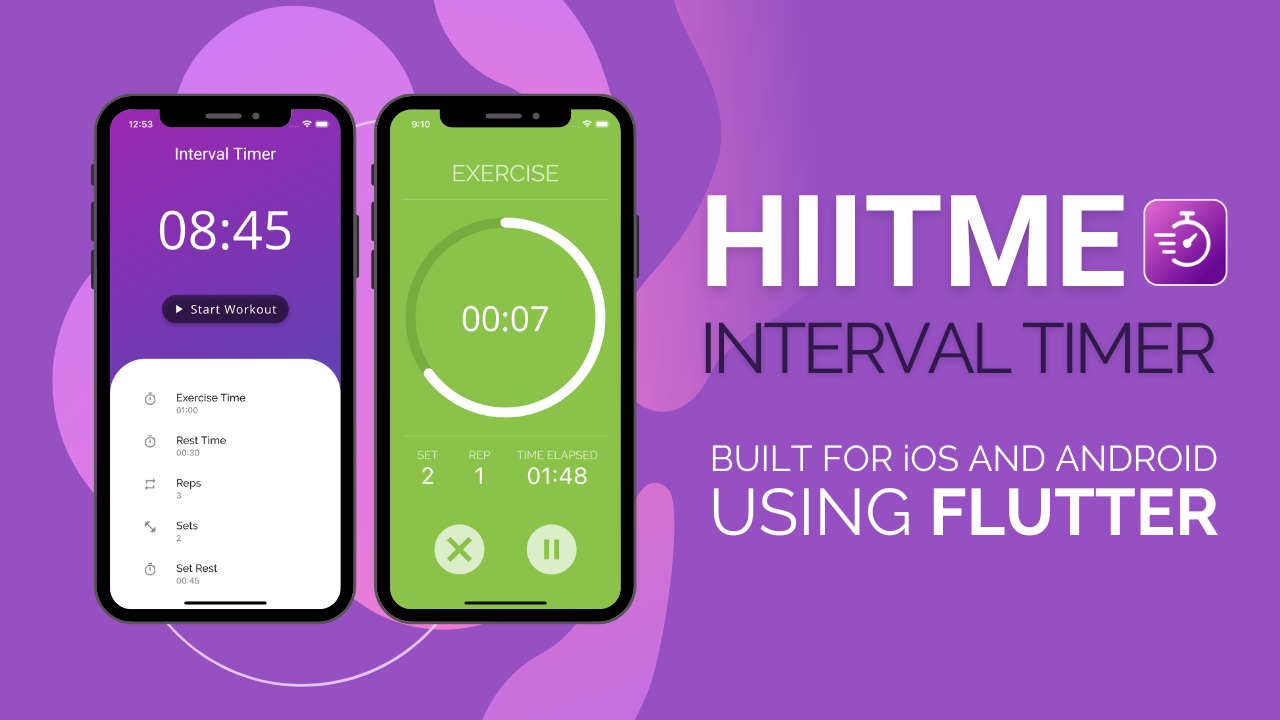
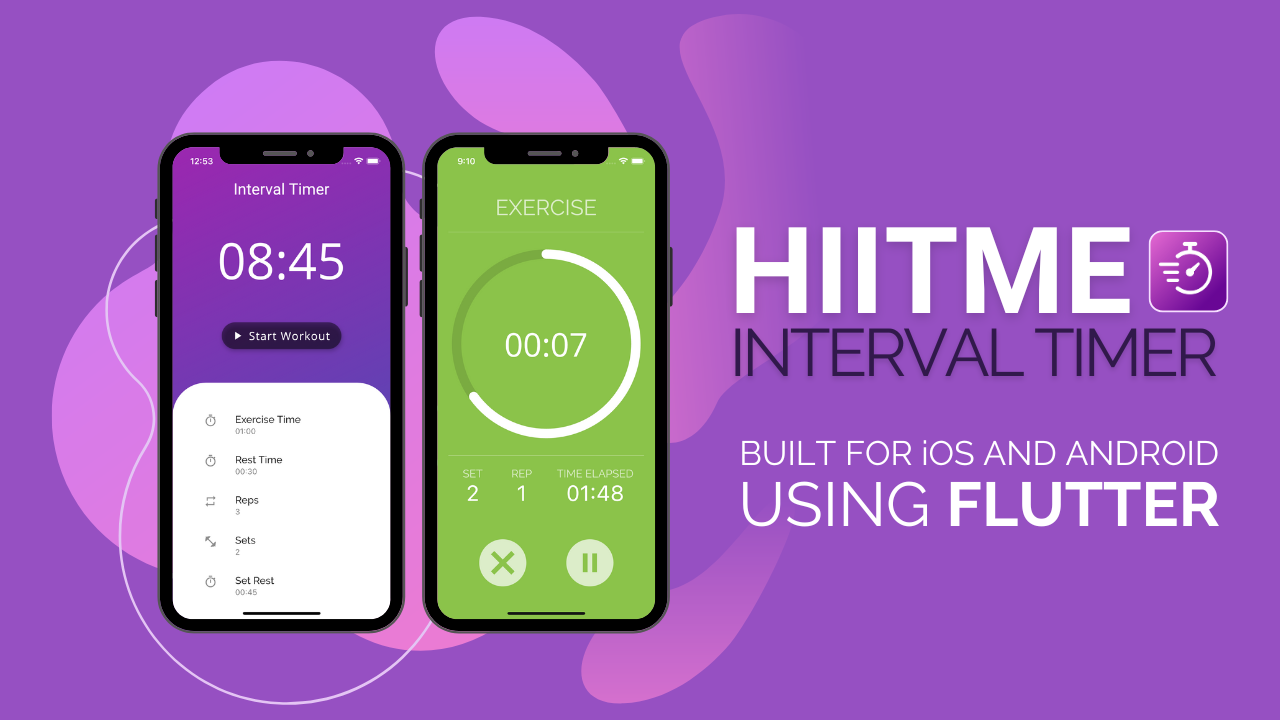
fix: adjust footer margin for better layout on mobile and update hiitme image properties for improved display

diff --git a/src/components/layouts/Projects.css b/src/components/layouts/Projects.css
@@ -20,7 +20,8 @@
 .hiitme-image {
   width: 100%;
   height: 315px;
-  object-fit: cover;
+  object-fit: contain;
+  background-color: #9650c2;
   transition: all 0.3s ease;
   border-radius: 10px;
   box-shadow: 0 8px 25px rgba(60, 59, 72, 0.3);

diff --git a/src/components/layouts/Footer.css b/src/components/layouts/Footer.css
@@ -51,7 +51,7 @@
 
 @media (max-width: 800px) {
     .footer-wrapper {
-        margin-top: auto;
+        margin-top: 60px;
     }
 
     .mobile-footer {
